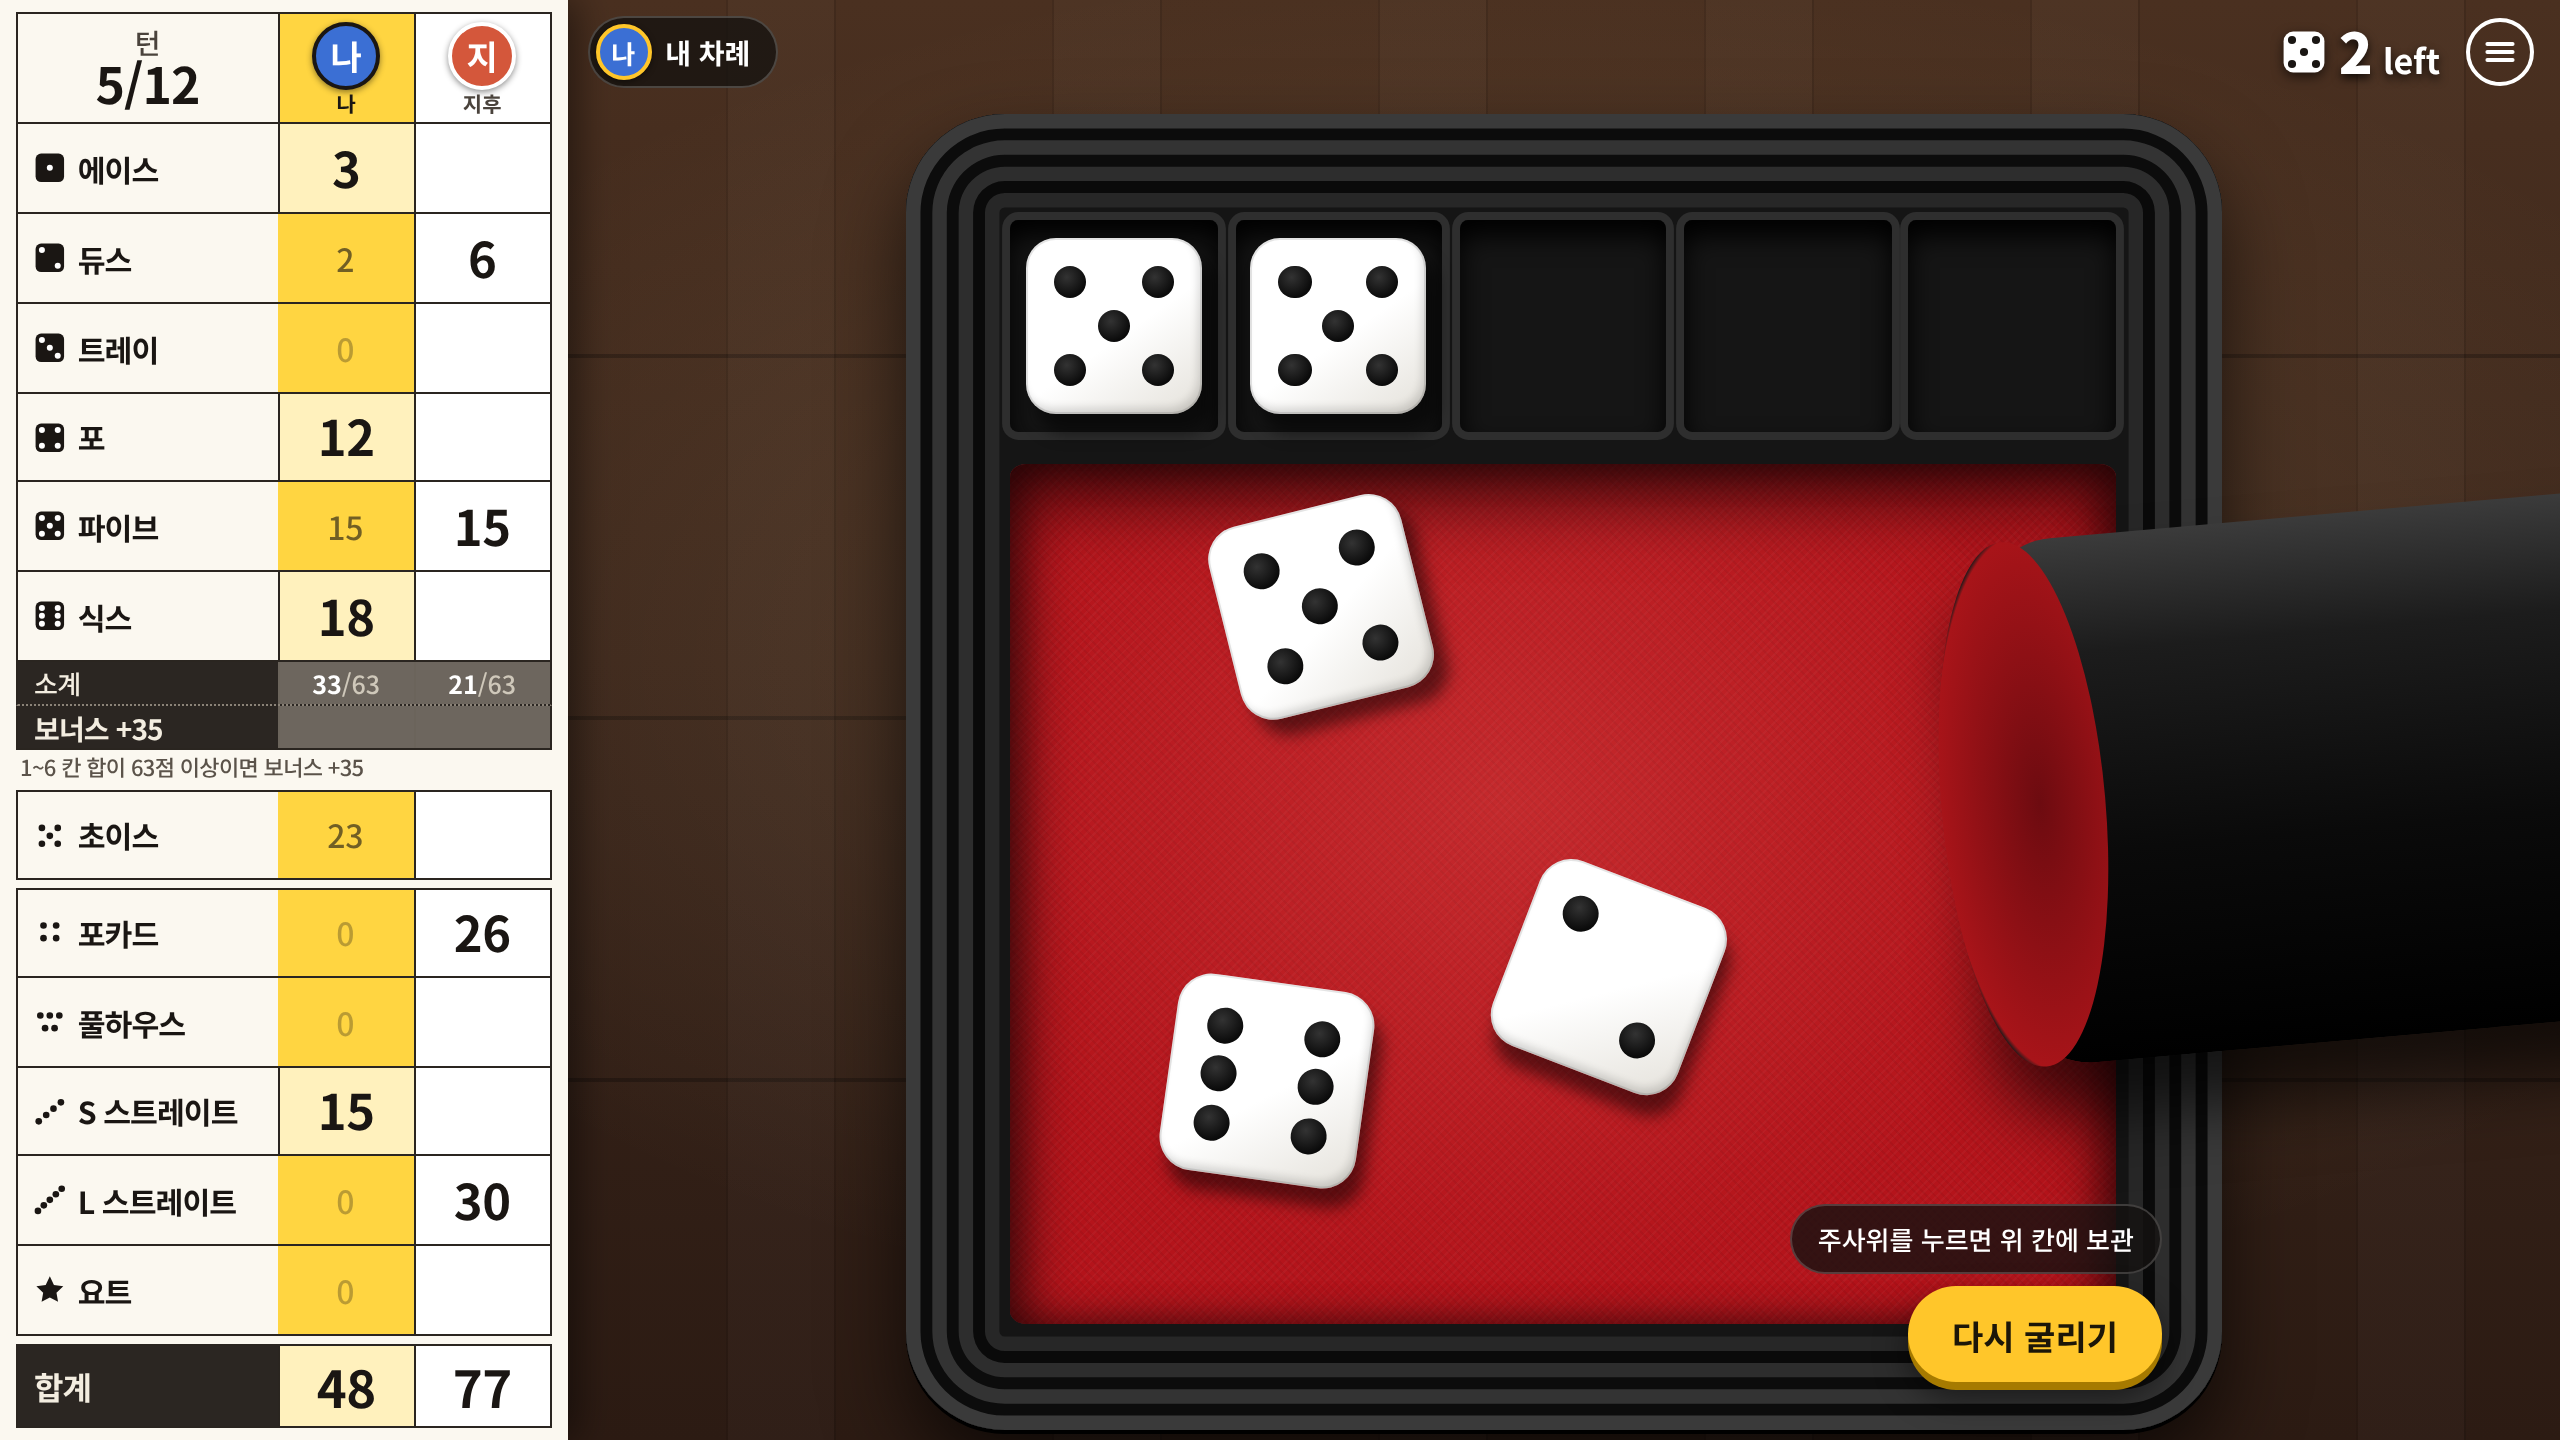
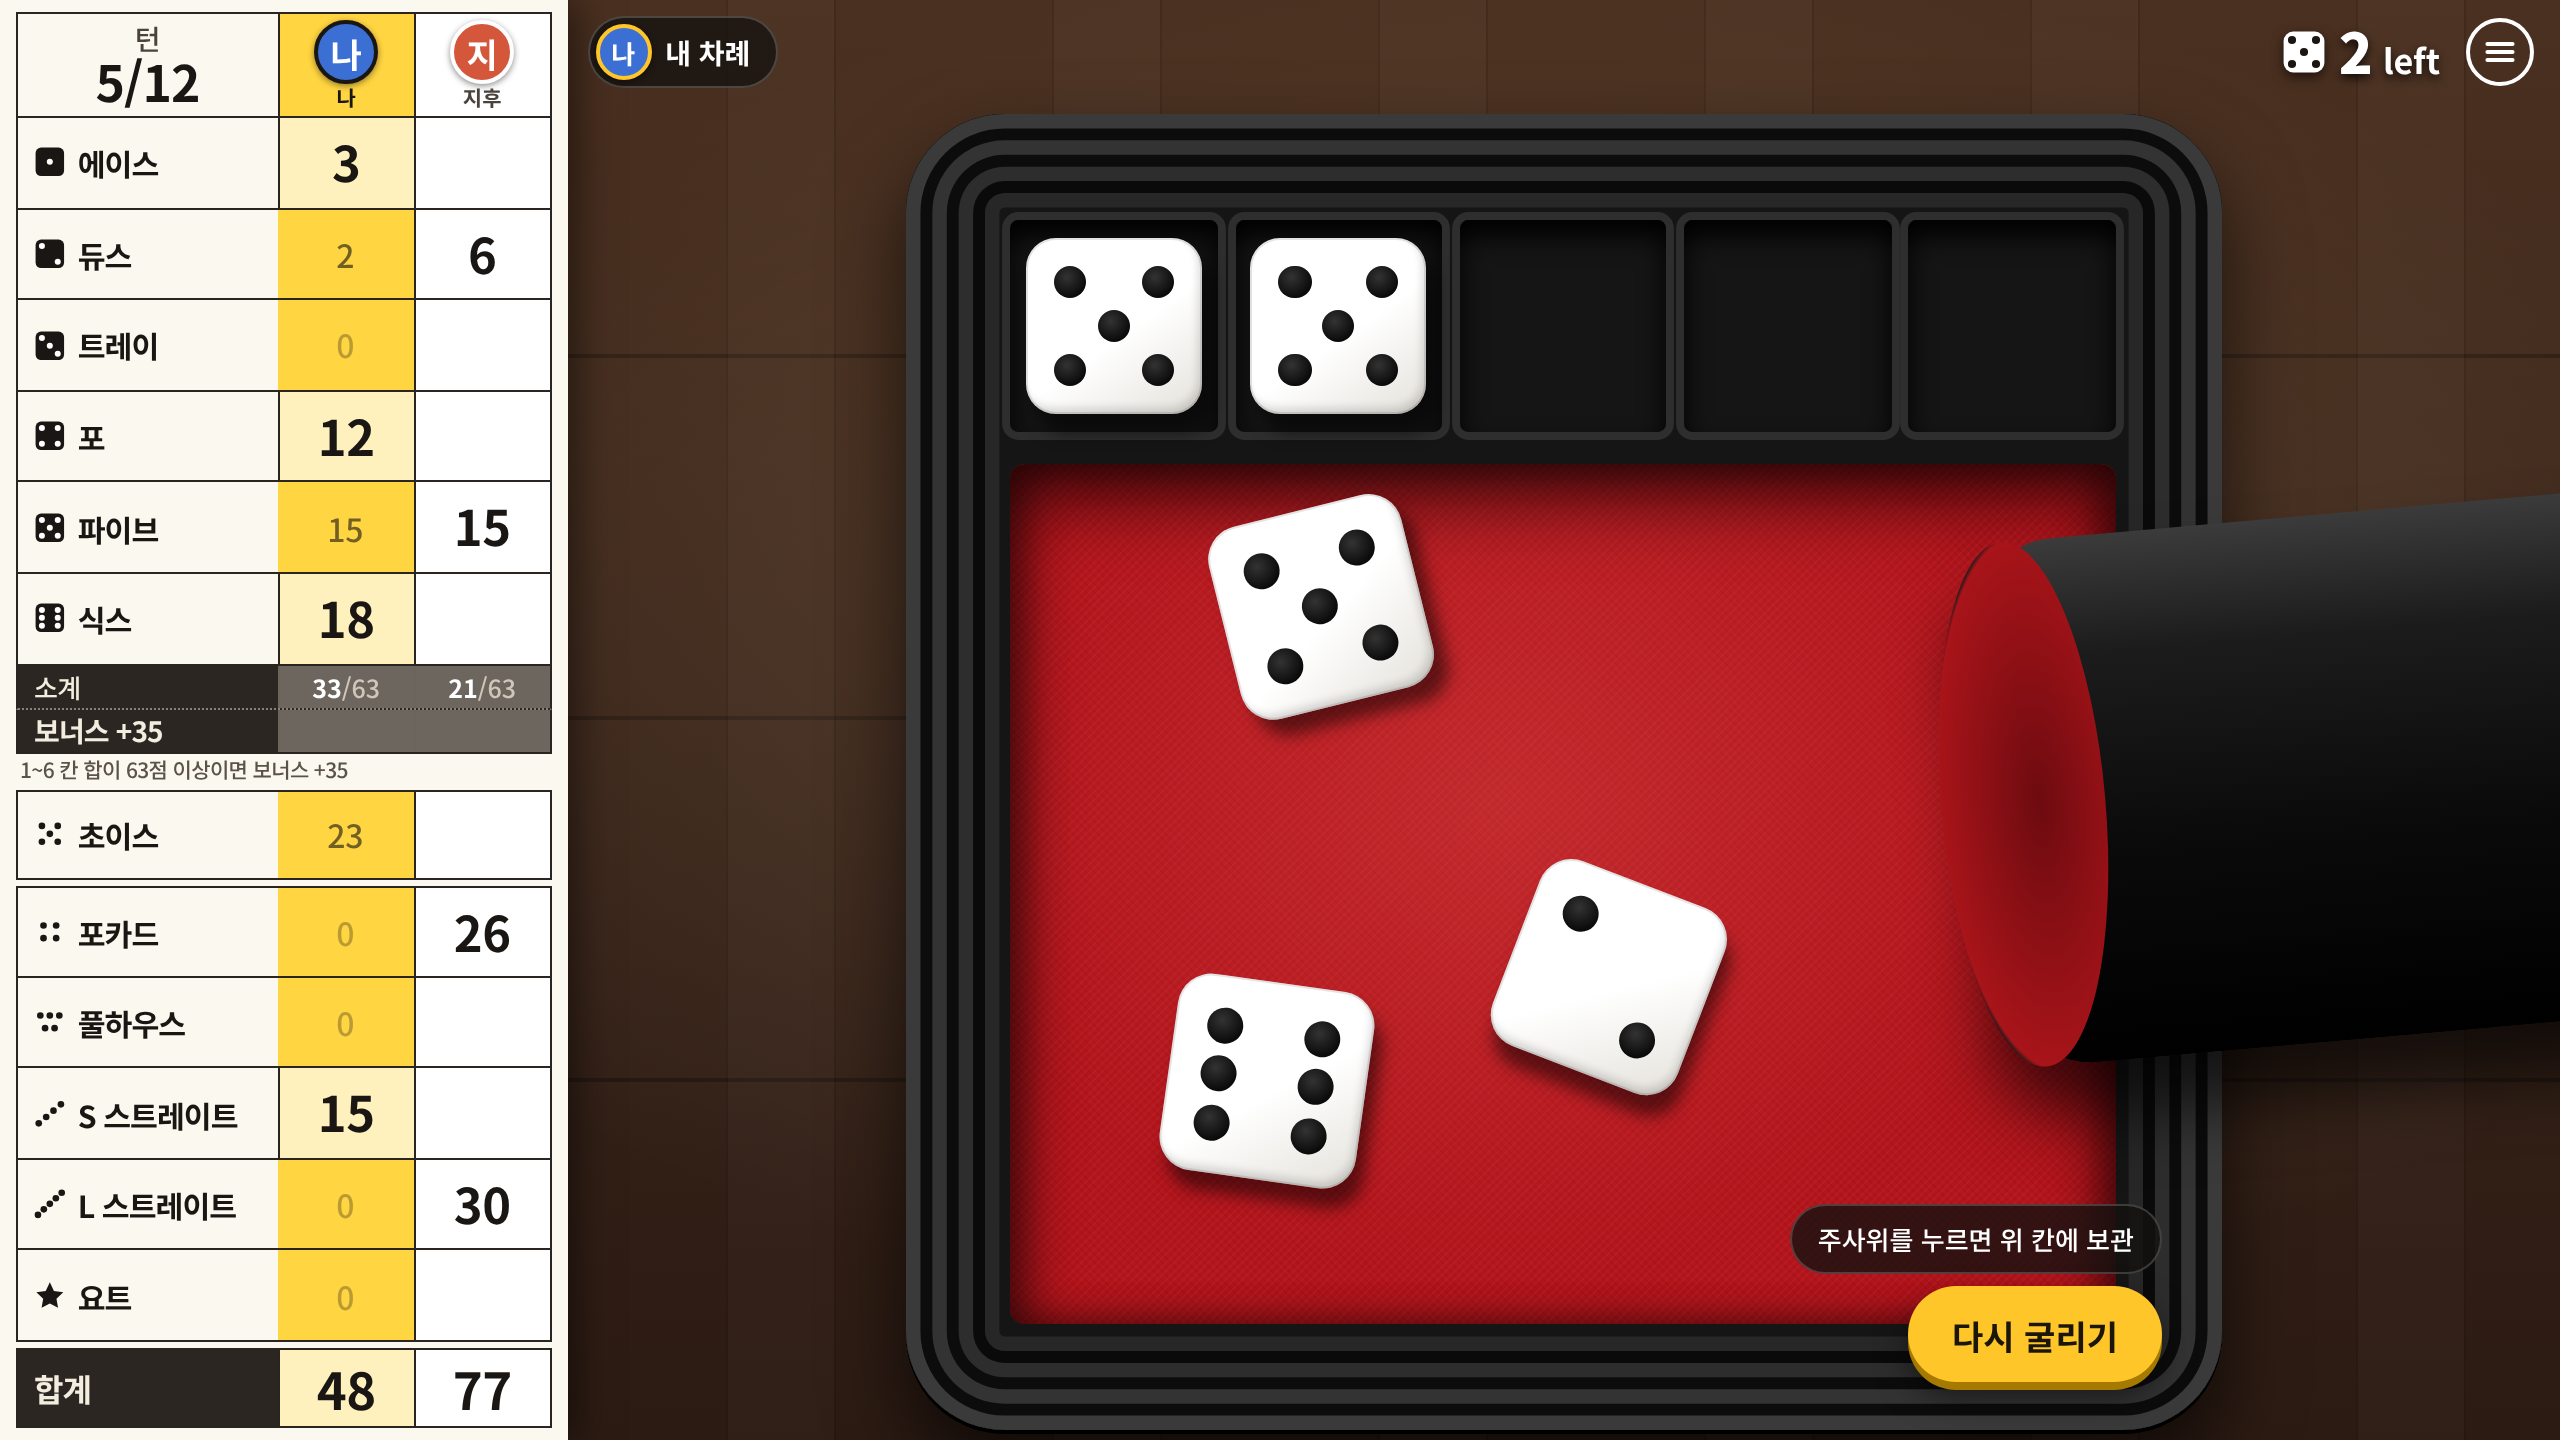
요트다이스: 화면 시안(상태 6가지, 두 번 눌러 기록)
Claude-Session: https://claude.ai/code/session_01HLnaqYukXRLsmyagDNfB5s

diff --git a/design/yacht/mock.html b/design/yacht/mock.html
@@ -34,7 +34,7 @@ html, body { margin: 0; height: 100%; background: #000; overflow: hidden; }
 .yt-blk { display: contents; }
 .yt-row { display: grid; grid-template-columns: var(--lw) repeat(var(--n), var(--cw)); border: 1.5px solid var(--line); border-top-width: 0; flex: none; }
 .yt-row.yt-first { border-top-width: 1.5px; }
-.yt-row.yt-gap { margin-top: 4px; border-top-width: 1.5px; }
+.yt-row.yt-gap { margin-top: 3px; border-top-width: 1.5px; }
 .yt-row > * { border-left: 1.5px solid var(--line); display: flex; align-items: center; justify-content: center; min-width: 0; }
 .yt-row > :first-child { border-left: 0; }
 .yt-cat { flex: 1 1 44px; min-height: 44px; }
@@ -47,12 +47,12 @@ button.yt-c.yt-pv, .yt-root button.yt-pv { background: var(--pv); color: rgba(26
 .yt-root button.yt-pv:active { background: #ffb400; }
 .yt-root button.yt-pv.yt-zero { color: rgba(26, 22, 19, .3); }
 .yt-root button.yt-pv.yt-hot { color: var(--ink); box-shadow: inset 0 0 0 3px #e2571c; animation: yt-pulse 1s ease-in-out infinite alternate; }
-.yt-root button.yt-pv.yt-sel { position: relative; z-index: 5; color: var(--ink); background: #ffe27a; box-shadow: inset 0 0 0 4px var(--ink); }
+.yt-root .yt-c.yt-sel { position: relative; z-index: 5; color: var(--ink); background: #ffe27a; box-shadow: inset 0 0 0 4px var(--ink); }
 .yt-bub { position: absolute; left: calc(100% + 9px); top: 50%; transform: translateY(-50%); font-style: normal; font-size: 13px; font-weight: 700; letter-spacing: -.02em; white-space: nowrap; color: #fff; background: var(--ink); padding: 8px 11px; border-radius: 9px; pointer-events: none; box-shadow: 0 4px 12px rgba(0, 0, 0, .4); }
 .yt-bub::before { content: ''; position: absolute; left: -6px; top: 50%; margin-top: -6px; border: 6px solid transparent; border-left: 0; border-right-color: var(--ink); }
 @keyframes yt-pulse { to { background: #ffe98f; } }
 
-.yt-hd { height: 56px; border-bottom-width: 1.5px; }
+.yt-hd { height: 53px; border-bottom-width: 1.5px; }
 .yt-hd.yt-hd2 { display: none; }
 .yt-turn { flex-direction: column; gap: 0; line-height: 1.05; color: #4a433c; font-weight: 500; font-size: 14px; background: var(--paper); }
 .yt-turn b { font-size: 25px; font-weight: 700; color: var(--ink); letter-spacing: -.02em; }
@@ -60,7 +60,7 @@ button.yt-c.yt-pv, .yt-root button.yt-pv { background: var(--pv); color: rgba(26
 .yt-pc span { max-width: 100%; overflow: hidden; text-overflow: ellipsis; white-space: nowrap; line-height: 1.1; }
 .yt-pc.yt-on { background: var(--pv); color: var(--ink); }
 .yt-pc.yt-off { background: var(--off); }
-.yt-av { width: 34px; height: 34px; border-radius: 50%; flex: none; display: flex; align-items: center; justify-content: center; color: #fff; font-weight: 700; font-size: 17px; line-height: 1; border: 2px solid #fff; box-shadow: 0 1px 3px rgba(0, 0, 0, .45); }
+.yt-av { width: 32px; height: 32px; border-radius: 50%; flex: none; display: flex; align-items: center; justify-content: center; color: #fff; font-weight: 700; font-size: 17px; line-height: 1; border: 2px solid #fff; box-shadow: 0 1px 3px rgba(0, 0, 0, .45); }
 .yt-on > .yt-av { border-color: var(--ink); }
 .yt-off > .yt-av { filter: grayscale(.8); opacity: .75; }
 .yt-crown { position: absolute; top: -1px; right: 1px; width: 17px; height: 17px; }
@@ -76,8 +76,8 @@ button.yt-c.yt-pv, .yt-root button.yt-pv { background: var(--pv); color: rgba(26
 .yt-s.yt-ok b { color: var(--gold); }
 .yt-b { font-size: 16px; font-weight: 700; color: #fff; background: #6d665e; }
 .yt-b.yt-ok { color: var(--gold); }
-.yt-note { height: 16px; font-size: 11px; font-weight: 500; color: #5b534a; display: flex; align-items: center; padding-left: 2px; white-space: nowrap; flex: none; letter-spacing: -.03em; }
-.yt-tot { height: 42px; background: var(--dark); }
+.yt-note { height: 15px; font-size: 10.5px; font-weight: 500; color: #5b534a; display: flex; align-items: center; padding-left: 2px; white-space: nowrap; flex: none; letter-spacing: -.03em; }
+.yt-tot { height: 40px; background: var(--dark); }
 .yt-tot .yt-lab { font-size: 16px; font-weight: 700; }
 .yt-tot .yt-c { font-size: calc(var(--fnum) * 1.04); }
 .yt-tot .yt-c.yt-win { background: var(--gold); }
@@ -139,7 +139,7 @@ button.yt-c.yt-pv, .yt-root button.yt-pv { background: var(--pv); color: rgba(26
 .yt-cup { position: absolute; left: var(--cx, 74%); top: 51%; width: calc(var(--t) * .5); height: calc(var(--t) * .5); transform: translate(-50%, -50%); border-radius: 50%; z-index: 3;
   background: radial-gradient(circle, #7a0d12 0 38%, #a81419 58%, #8d1015 66.5%, #1c1c1c 67.5%, #2c2c2c 69%, #0d0d0d 71%);
   box-shadow: 0 calc(var(--t) * .03) calc(var(--t) * .05) rgba(0, 0, 0, .7), inset 0 0 0 calc(var(--t) * .004) #3a3a3a; }
-.yt-cup .yt-die { --d: calc(var(--t) * .13); box-shadow: inset 0 0 0 1px rgba(0, 0, 0, .1), 2px 4px 5px rgba(0, 0, 0, .55); }
+.yt-cup .yt-die { --d: calc(var(--t) * .11); box-shadow: inset 0 0 0 1px rgba(0, 0, 0, .1), 2px 4px 5px rgba(0, 0, 0, .55); }
 .yt-cupside { position: absolute; left: 83%; top: 30%; width: calc(var(--t) * .62); height: calc(var(--t) * .4); z-index: 3; transform: rotate(-5deg); border-radius: 9% 6% 6% 9% / 14% 10% 10% 14%;
   background: linear-gradient(180deg, #3b3b3b, #1c1c1c 22%, #0a0a0a 60%, #000); box-shadow: calc(var(--t) * -.02) calc(var(--t) * .04) calc(var(--t) * .05) rgba(0, 0, 0, .65); }
 .yt-cupside::before { content: ''; position: absolute; left: -7%; top: 0; width: 20%; height: 100%; border-radius: 50%; background: radial-gradient(ellipse at 60% 50%, #6d0b10, #a81419 72%, #1a1a1a 74%, #303030 86%, #0c0c0c 88%); }
@@ -262,6 +262,7 @@ button.yt-c.yt-pv, .yt-root button.yt-pv { background: var(--pv); color: rgba(26
   var totals = data.map(total), best = Math.max.apply(null, totals), winner = state === 'result' ? totals.indexOf(best) : -1;
   function colCls(i) { return i === sc.active || i === winner ? ' yt-on' : (state === 'wait' && i === 0 ? ' yt-off' : ''); }
 
+  var otherSel = state === 'wait' ? { k: 'a3', v: score(cur).a3 } : null;
   function row(cls, label, cellFn) {
     var r = el('div', 'yt-row ' + cls); r.appendChild(label);
     P.forEach(function (p, i) { r.appendChild(cellFn(i)); }); return r;
@@ -269,7 +270,7 @@ button.yt-c.yt-pv, .yt-root button.yt-pv { background: var(--pv); color: rgba(26
   function lab(k, text) { var l = el('div', 'yt-lab'); if (k) l.appendChild(icon(k)); l.appendChild(el('span', '', text)); return l; }
   function header(second) {
     var t = el('div', second ? 'yt-turn yt-hint2' : 'yt-turn');
-    if (second) t.textContent = sel ? '한 번 더 누르면 기록' : '노란 칸을 두 번 눌러 기록'; else { t.appendChild(el('span', '', '턴')); t.appendChild(el('b', '', sc.turn + '/12')); }
+    if (second) t.textContent = sc.active !== 0 || done ? '' : (sel ? '한 번 더 누르면 기록' : '노란 칸을 두 번 눌러 기록'); else { t.appendChild(el('span', '', '턴')); t.appendChild(el('b', '', sc.turn + '/12')); }
     return row('yt-hd yt-first' + (second ? ' yt-hd2' : ''), t, function (i) {
       var c = el('div', 'yt-pc' + colCls(i)); c.appendChild(avatar(P[i])); c.appendChild(el('span', '', P[i].name));
       if (i === winner) c.appendChild(svg('<path d="M2 15h16l1-9-5 4-4-7-4 7-5-4z" fill="#ffc62a" stroke="#1a1613" stroke-width="1.6" stroke-linejoin="round"/>'));
@@ -287,6 +288,9 @@ button.yt-c.yt-pv, .yt-root button.yt-pv { background: var(--pv); color: rgba(26
         b.dataset.k = k;
         if (preview && sel === k) { b.classList.add('yt-sel'); b.appendChild(el('em', 'yt-bub', '한 번 더 누르면 기록')); }
         b.setAttribute('aria-label', NAME[k] + (preview ? ' ' + preview[k] + '점 기록' : '')); return b;
+      }
+      if (v == null && otherSel && i === sc.active && k === otherSel.k) { // 남이 고른 칸: 모두에게 같은 강조
+        var o = el('div', 'yt-c yt-sel', String(otherSel.v)); o.appendChild(el('em', 'yt-bub', '고민 중…')); return o;
       }
       return el('div', 'yt-c' + colCls(i), v == null ? '' : String(v));
     });
@@ -327,7 +331,7 @@ button.yt-c.yt-pv, .yt-root button.yt-pv { background: var(--pv); color: rgba(26
   sc.felt.forEach(function (f) { var d = die(f[0], mine ? 'button' : 'div'); if (mine) d.type = 'button'; d.style.left = f[1] + '%'; d.style.top = f[2] + '%'; d.style.transform = 'rotate(' + f[3] + 'deg)'; tray.appendChild(d); });
   if (sc.cup) {
     var cup = el('div', 'yt-cup'), pos = [[22, 22, -18], [52, 14, 24], [16, 54, 12], [48, 47, -32], [36, 70, 8]].slice(0, 5);
-    pos = [[24, 20, -18], [53, 22, 24], [17, 50, 12], [58, 52, -32], [37, 62, 40]];
+    pos = [[43, 16, -18], [62, 36, 24], [49, 60, 12], [22, 55, -32], [18, 28, 40]];
     sc.cup.forEach(function (v, j) { var d = die(v); d.style.left = pos[j][0] + '%'; d.style.top = pos[j][1] + '%'; d.style.transform = 'rotate(' + pos[j][2] + 'deg)'; cup.appendChild(d); });
     tray.appendChild(cup);
   } else if (state !== 'result' && !done) tray.appendChild(el('div', 'yt-cupside'));
@@ -338,7 +342,7 @@ button.yt-c.yt-pv, .yt-root button.yt-pv { background: var(--pv); color: rgba(26
   else if (done) act.appendChild(el('div', 'yt-tip', '기록했어요 · 다음 사람 차례'));
   else if (state === 'keep' || state === 'select') { if (!sel) act.appendChild(el('div', 'yt-tip yt-opt', '주사위를 누르면 위 칸에 보관')); act.appendChild(btn('다시 굴리기')); }
   else if (state === 'yacht') act.appendChild(el('div', 'yt-tip', sel ? '한 번 더 누르면 기록' : '요트 칸을 눌러 50점 기록'));
-  else if (state === 'wait') act.appendChild(el('div', 'yt-tip', P[sc.active].name + ' 님이 고르는 중…'));
+  else if (state === 'wait') act.appendChild(el('div', 'yt-tip', P[sc.active].name + ' 님이 ' + NAME[otherSel.k] + ' 칸을 고민 중…'));
   tray.appendChild(act);
 
   if (state === 'yacht') {
@@ -352,7 +356,7 @@ button.yt-c.yt-pv, .yt-root button.yt-pv { background: var(--pv); color: rgba(26
       var p = el('i'); p.style.left = (rnd() * 100) + '%'; p.style.top = '0'; p.style.background = cols[c % cols.length];
       p.style.setProperty('--r', Math.round(rnd() * 360) + 'deg'); p.style.setProperty('--y', (rnd() * 96) + '%');
       p.style.animationDelay = (-rnd() * 3.2) + 's'; p.style.animationDuration = (2.6 + rnd() * 1.6) + 's';
-      var w = 6 + rnd() * 6; p.style.width = w + 'px'; p.style.height = (w * (1 + rnd())) + 'px'; conf.appendChild(p);
+      var w = (6 + rnd() * 6) * (window.innerHeight < 720 ? .65 : 1); p.style.width = w + 'px'; p.style.height = (w * (1 + rnd())) + 'px'; conf.appendChild(p);
     }
     board.appendChild(conf);
   }
@@ -376,7 +380,7 @@ button.yt-c.yt-pv, .yt-root button.yt-pv { background: var(--pv); color: rgba(26
   root.addEventListener('click', function (e) {
     var b = e.target.closest && e.target.closest('button.yt-pv'); if (!b || !b.dataset.k) return;
     var k = b.dataset.k, cur = sc.kept.concat(sc.felt.map(function (f) { return f[0]; })); if (cur.length !== 5) return;
-    if (sel === k) { data[0][k] = score(cur)[k]; sel = null; done = true; totals = data.map(total); } else sel = k;
+    if (sel === k) { data[0][k] = score(cur)[k]; sel = null; done = true; } else sel = k;
     render();
   });
 
